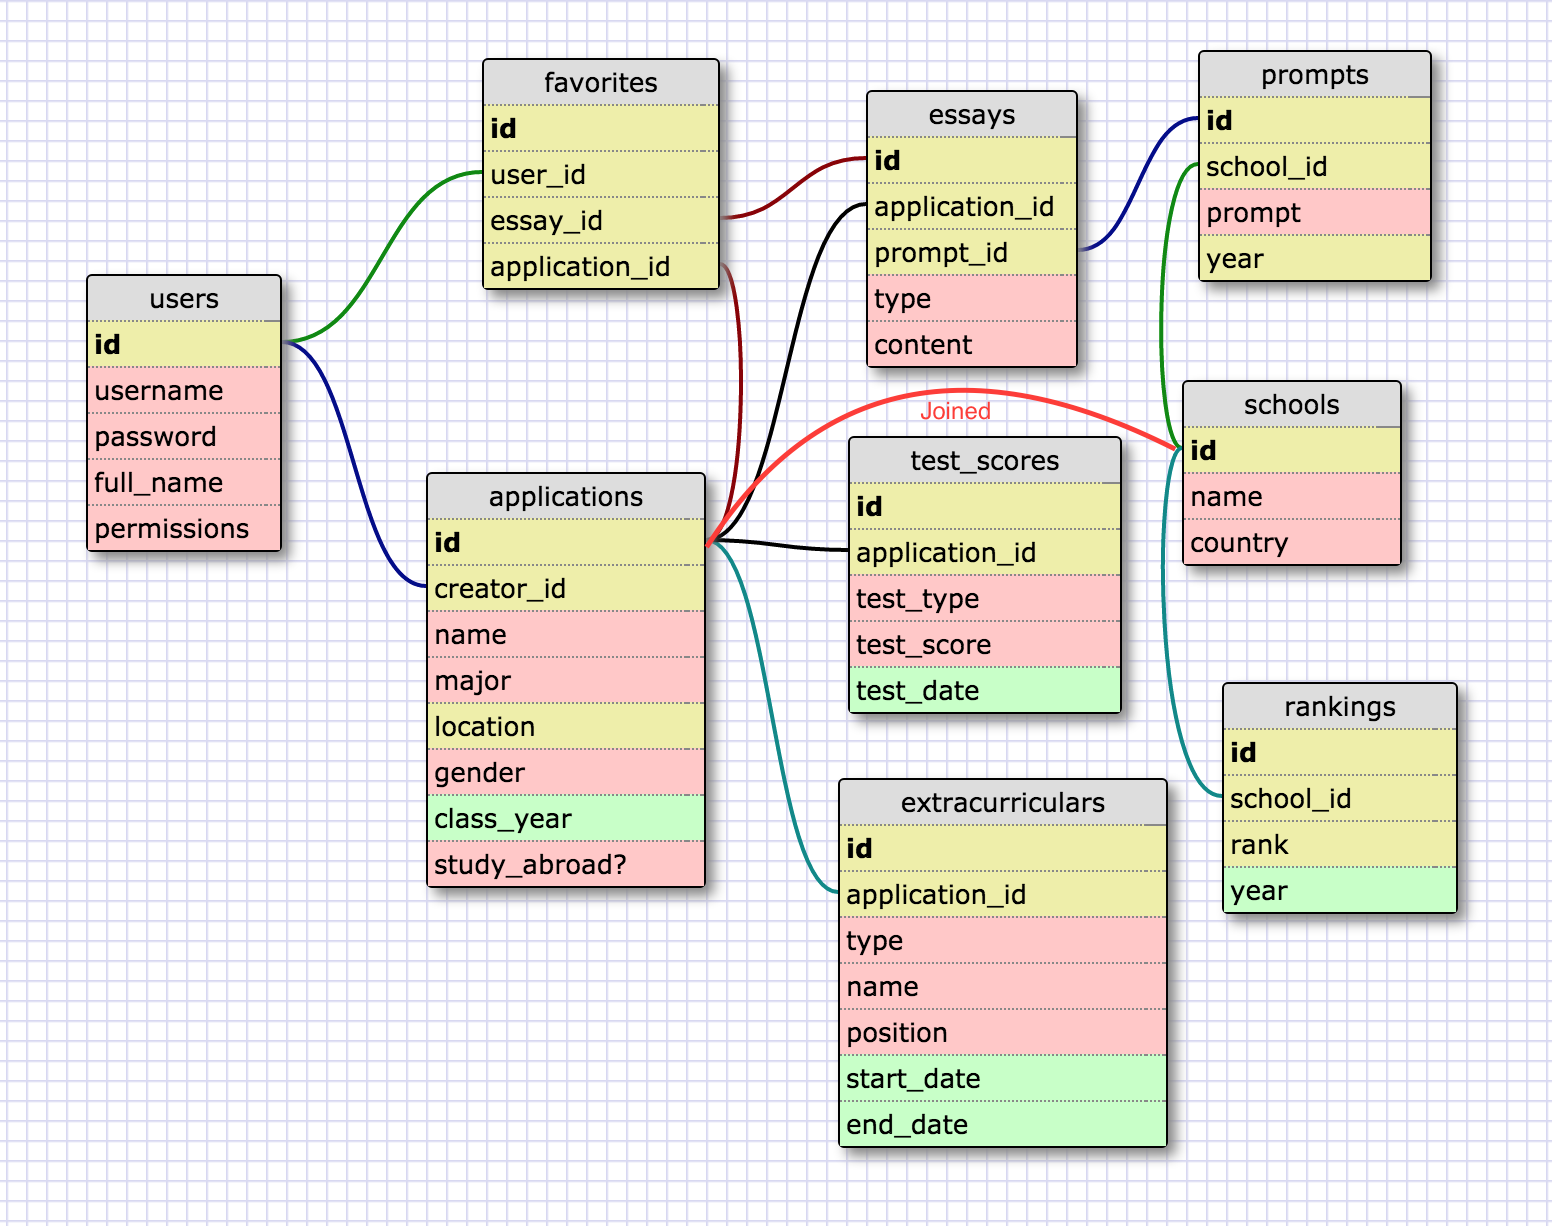
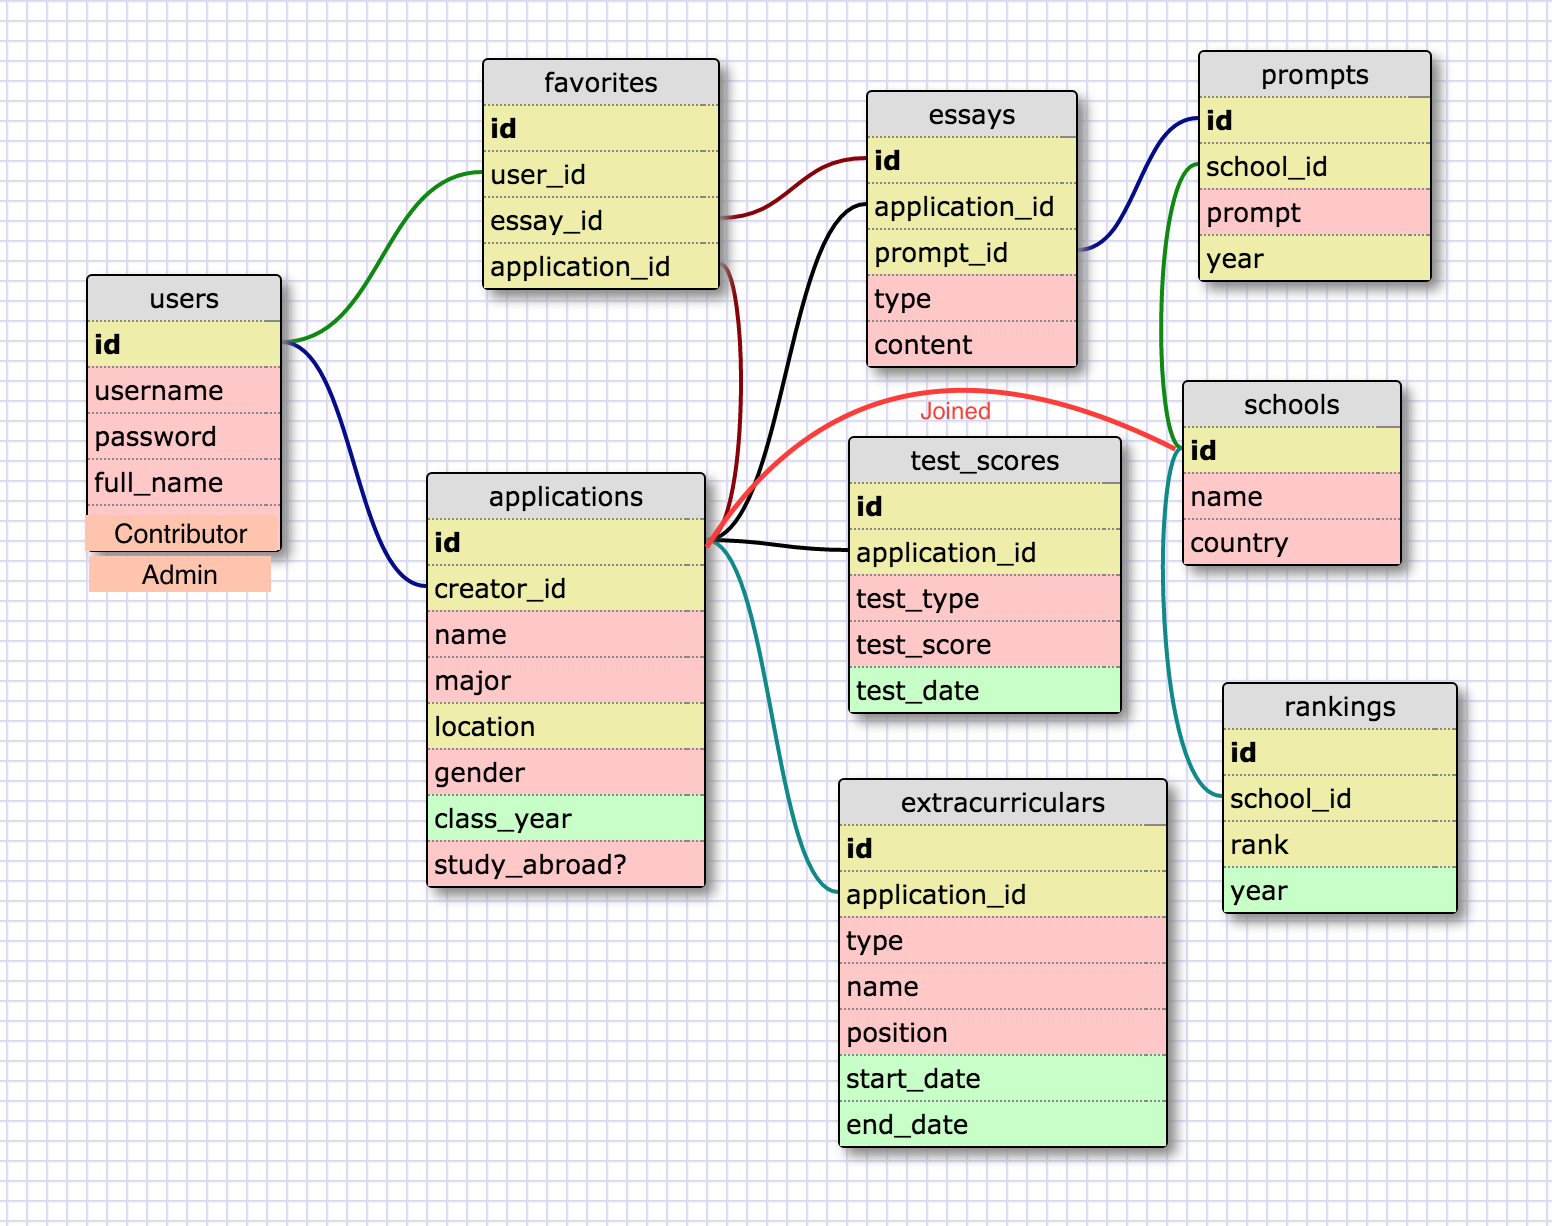
add nested attributes form for schools

Changed region(s): [[0.0309, 0.4029, 0.1856, 0.4959]]

diff --git a/app/controllers/schools_controller.rb b/app/controllers/schools_controller.rb
@@ -1,5 +1,5 @@
 class SchoolsController < ApplicationController
-  before_action :set_essay, only: [:show, :edit, :update, :destroy]
+  before_action :set_school, only: [:show, :edit, :update, :destroy]
   before_action :authenticate_user!
   before_action :authenticate_admin, except: [:show, :index]
   # GET /schools
@@ -25,7 +25,7 @@ class SchoolsController < ApplicationController
   # POST /schools
   # POST /schools.json
   def create
-    @school = School.new(essay_params)
+    @school = School.new(school_params)
 
     respond_to do |format|
       if @school.save
@@ -42,7 +42,7 @@ class SchoolsController < ApplicationController
   # PATCH/PUT /schools/1.json
   def update
     respond_to do |format|
-      if @school.update(essay_params)
+      if @school.update(school_params)
         format.html { redirect_to @school, notice: 'School was successfully updated.' }
         format.json { render :show, status: :ok, location: @school }
       else
@@ -64,7 +64,7 @@ class SchoolsController < ApplicationController
 
   private
     # Use callbacks to share common setup or constraints between actions.
-    def set_essay
+    def set_school
       @school = School.find(params[:id])
     end
 
@@ -73,7 +73,7 @@ class SchoolsController < ApplicationController
     end
 
     # Never trust parameters from the scary internet, only allow the white list through.
-    def essay_params
-      params[:school]
+    def school_params
+      params.require(:school).permit(:name, :country, rankings_attributes: [:rank,:year], prompts_attributes: [:content, :year])
     end
 end

diff --git a/db/seeds.rb b/db/seeds.rb
@@ -7,10 +7,15 @@
 #   Mayor.create(name: 'Emanuel', city: cities.first)
 
 #Create Admin
-admin = User.create(full_name: "Mike Admin", email: "mdu123@gmail.com", password: "123456", password_confirmation: "123456", admin: true)
+admin = User.new(full_name: "Mike Admin", email: "mdu123@gmail.com", password: "123456", password_confirmation: "123456", admin: true)
+admin.skip_confirmation!
+admin.save!
 
 #Create Simple User
-user = User.create(full_name: "Mike User", email: "gummibare@gmail.com", password: "123456", password_confirmation: "123456", admin: true)
+user = User.new(full_name: "Mike User", email: "gummibare@gmail.com", password: "123456", password_confirmation: "123456", admin: true)
+user.skip_confirmation!
+user.save!
+
 
 #Create Applications
 app = Application.create(user_id: 1, student_name: "Joey", major: "Biology", location: "Shanghai", gender: "M", year: 2016, study_abroad: false)

diff --git a/db/schema.rb b/db/schema.rb
@@ -11,7 +11,7 @@
 #
 # It's strongly recommended that you check this file into your version control system.
 
-ActiveRecord::Schema.define(version: 20160509172711) do
+ActiveRecord::Schema.define(version: 20160510043430) do
 
   # These are extensions that must be enabled in order to support this database
   enable_extension "plpgsql"
@@ -127,6 +127,7 @@ ActiveRecord::Schema.define(version: 20160509172711) do
     t.datetime "created_at",                             null: false
     t.datetime "updated_at",                             null: false
     t.boolean  "admin",                  default: false
+    t.boolean  "contributor",            default: false
   end
 
   add_index "users", ["confirmation_token"], name: "index_users_on_confirmation_token", unique: true, using: :btree

diff --git a/app/models/school.rb b/app/models/school.rb
@@ -4,4 +4,8 @@ class School < ActiveRecord::Base
   has_many :essays, through: :prompts
   has_many :admits
   has_many :schools, through: :admits, source: :application
+
+  accepts_nested_attributes_for :rankings, :prompts,
+    :allow_destroy => true,
+    :reject_if     => :all_blank
 end

diff --git a/app/helpers/form_helper.rb b/app/helpers/form_helper.rb
@@ -1,0 +1,11 @@
+module FormHelper
+  def setup_school(school)
+
+    3.times do
+      school.rankings.build
+      school.prompts.build
+    end
+
+    school
+  end
+end

diff --git a/db/migrate/20160510043430_add_contributor_to_users.rb b/db/migrate/20160510043430_add_contributor_to_users.rb
@@ -1,0 +1,5 @@
+class AddContributorToUsers < ActiveRecord::Migration
+  def change
+    add_column :users, :contributor, :boolean, default: false
+  end
+end
